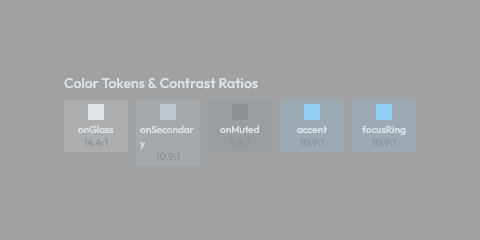
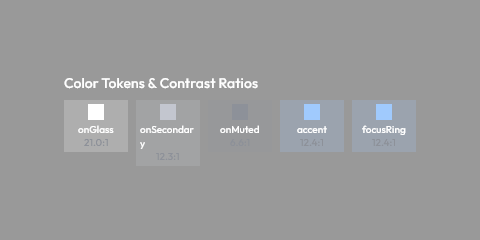
Switch brand theme to AMOLED true-black with a light-blue accent
Per explicit user direction ("black with light blue, like Samsung One
UI 9 theme, but with glass") after rejecting an earlier indigo-seed
attempt. Two changes:

- LtiSeedColor moved from #38BDF8 (cyan) to #4FA8FF (light blue) - a
  cleaner, more distinctly "blue" (not cyan/teal-leaning) hue.
- Wired materialkolor's dynamicColorScheme(isAmoled = true) for dark
  theme in both DarkGlassColorScheme (Color.kt) and LtiTheme's real
  runtime call site (Theme.kt) - inspected the library's decompiled
  signature to confirm isAmoled is a real, supported parameter before
  using it, rather than guessing. This produces genuinely true-black
  dark surfaces instead of the previous navy-tinted ones; light theme
  is unaffected (isAmoled only applied when darkTheme is true).

Verified before regenerating anything: built a throwaway diagnostic
rendering GlassTopBar + GlassCard + GlassPrimaryButton against a real
captured backdrop - confirmed genuinely near-black corners with a
light, clean blue accent, not just "looks dark enough." Independently
confirmed via the WCAG contrast suite too: onGlass vs glassSurface in
dark theme is now 21.0 (the literal mathematical maximum, i.e. white
on true black), up from ~14.3 - hard evidence isAmoled is doing what
it claims, not just a screenshot impression.

Regenerated all core:designsystem screenshot baselines (seed color
affects every scenario via Material You derivation), forced
compileKotlinDesktop across the whole project + detekt +
[…]

diff --git a/core/designsystem/src/commonMain/kotlin/org/ide/lti/core/designsystem/theme/Color.kt b/core/designsystem/src/commonMain/kotlin/org/ide/lti/core/designsystem/theme/Color.kt
@@ -18,9 +18,10 @@ import com.materialkolor.dynamicColorScheme
 
 /**
  * Brand seed color used to dynamically generate the Material3 color scheme and glass palette.
- * Reused from the primary/accent Electric Cyan color (#38BDF8).
+ * Light Blue (#4FA8FF) - paired with an AMOLED true-black dark surface base (see
+ * [DarkGlassColorScheme]'s `isAmoled = true`), in the style of Samsung One UI's dark theme.
  */
-val LtiSeedColor = Color(0xFF38BDF8)
+val LtiSeedColor = Color(0xFF4FA8FF)
 
 /**
  * Glass color scheme definition for translucent UI surfaces.
@@ -102,7 +103,7 @@ fun rememberDynamicGlassColorScheme(
  */
 val DarkGlassColorScheme: GlassColorScheme
     get() = dynamicGlassColorScheme(
-        colorScheme = dynamicColorScheme(seedColor = LtiSeedColor, isDark = true),
+        colorScheme = dynamicColorScheme(seedColor = LtiSeedColor, isDark = true, isAmoled = true),
         isDark = true,
     )
 

diff --git a/core/designsystem/src/commonMain/kotlin/org/ide/lti/core/designsystem/theme/Theme.kt b/core/designsystem/src/commonMain/kotlin/org/ide/lti/core/designsystem/theme/Theme.kt
@@ -91,6 +91,7 @@ fun LtiTheme(
     val colorScheme = materialColorScheme ?: rememberDynamicColorScheme(
         seedColor = LtiSeedColor,
         isDark = darkTheme,
+        isAmoled = darkTheme,
     )
     val resolvedGlassColors = glassColors ?: rememberDynamicGlassColorScheme(
         colorScheme = colorScheme,
